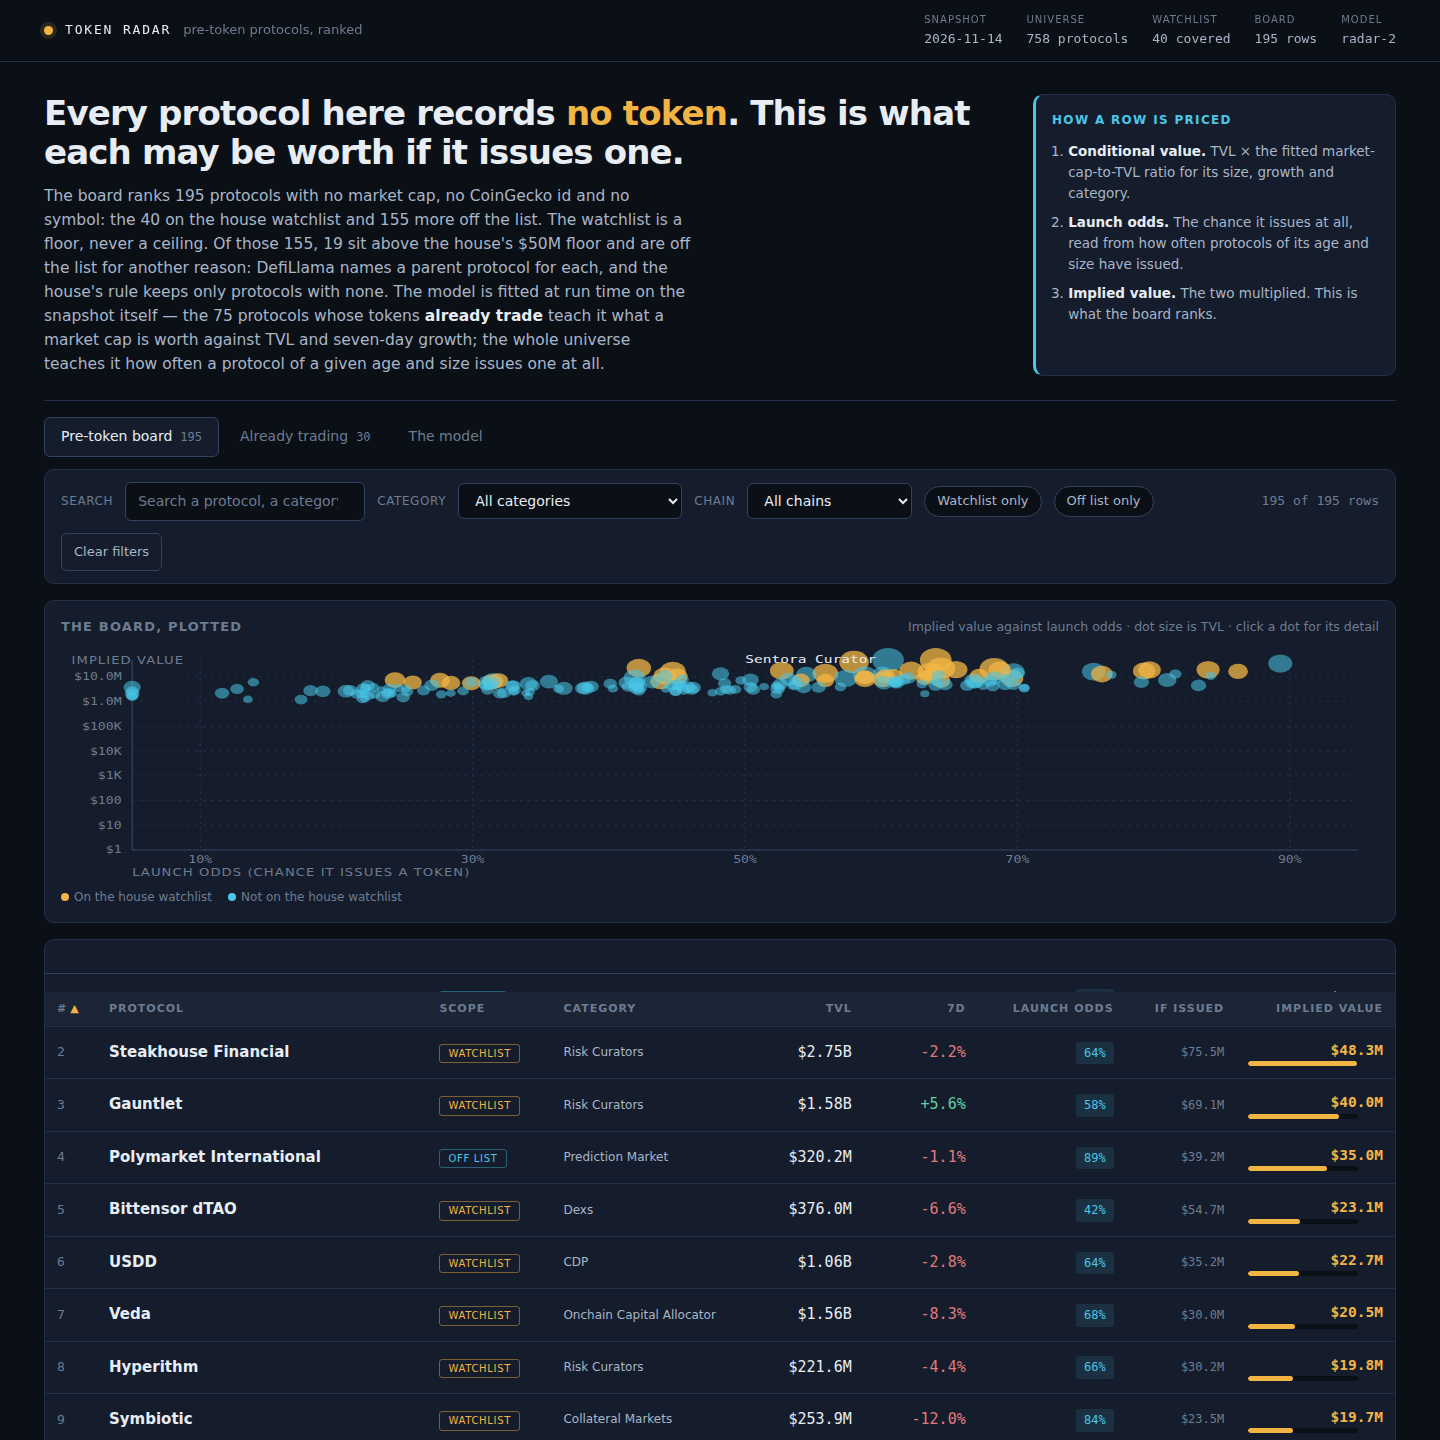
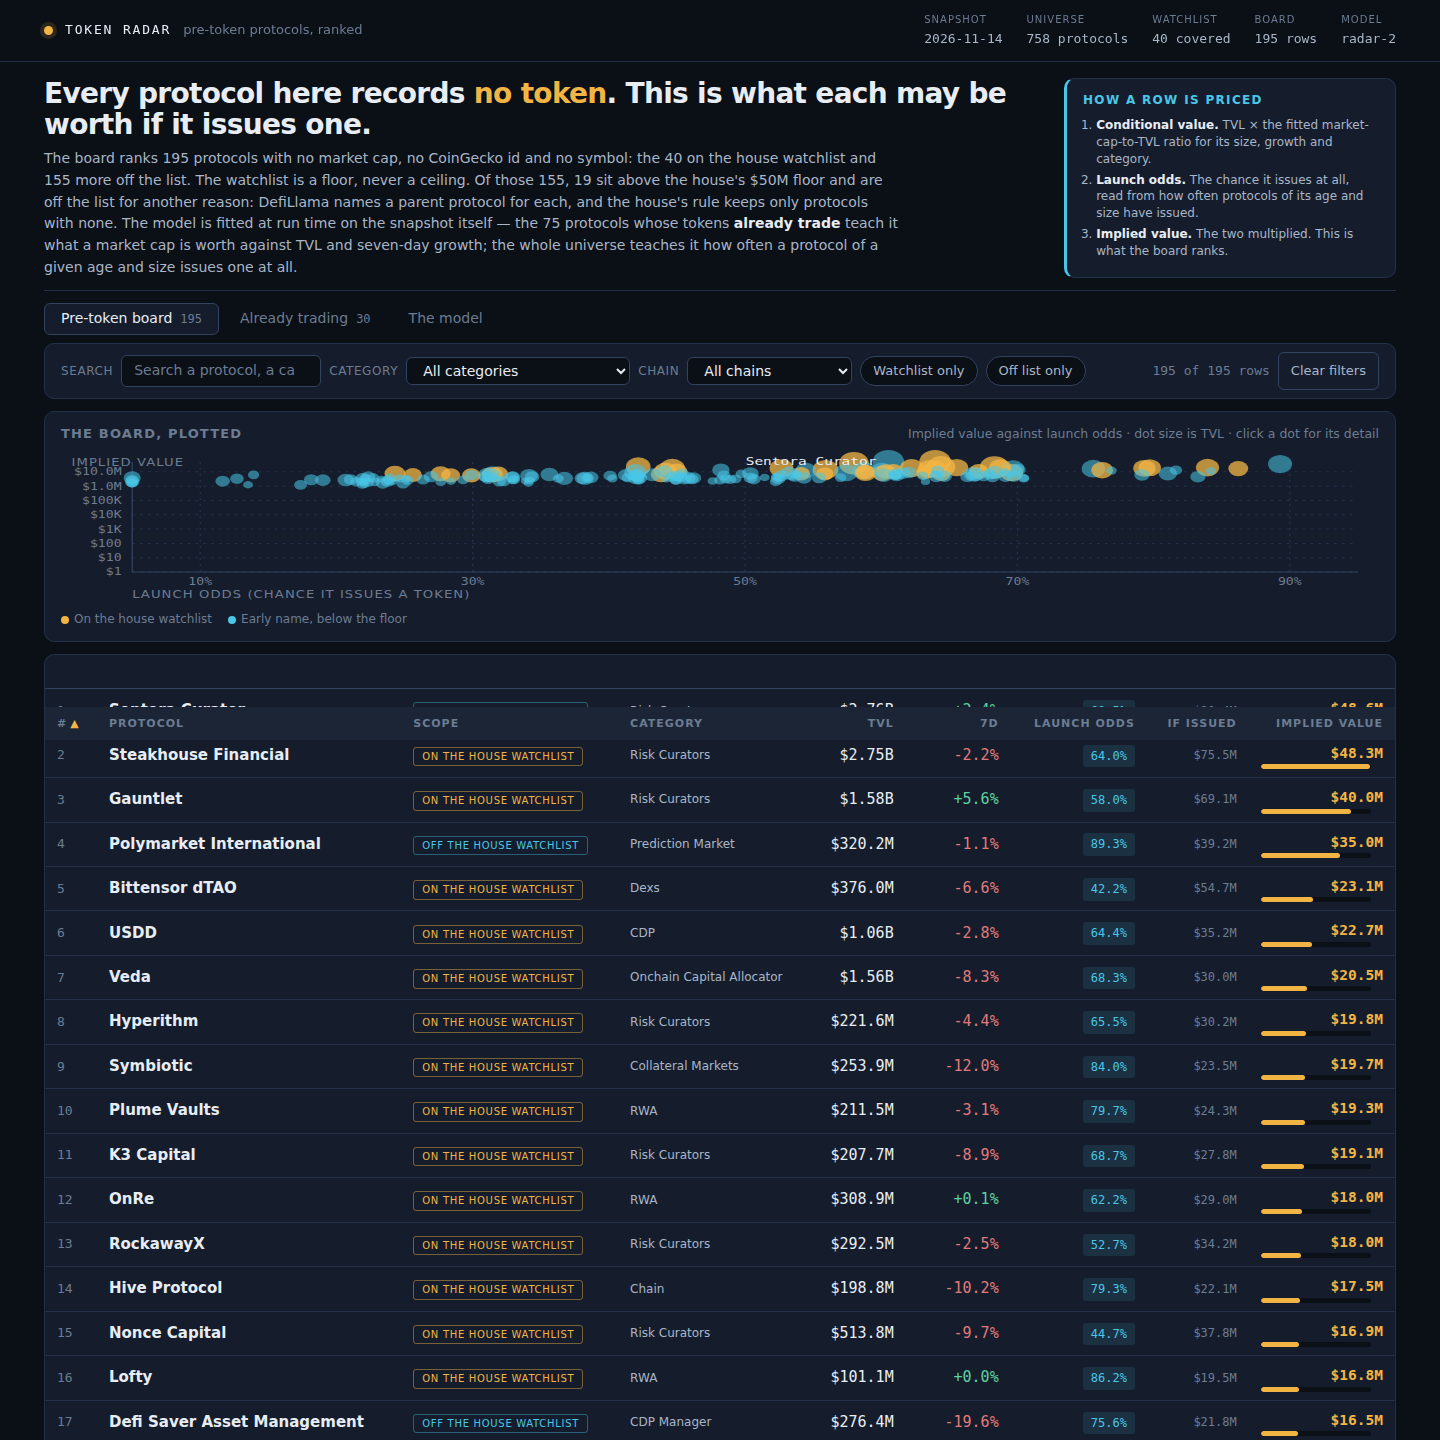
S2: the board's rows are in the cover picture
The board's table started 939px down the page, so at every viewport the judge could
render the cover screenshot showed the hero, the tabs, the filters and the scatter and
not one row of the board. At 1440x900 - the size the house's own reference starter
ships - it showed zero rows. The board is what criterion 1 is about.

The page is compacted rather than the screenshot scrolled: the hero's padding and
type come down, the callout tightens, the controls lose a row, the table's cells lose
half their padding and the scatter shortens from 230px to 150px, which still shows
every one of the 195 dots (193 inside the frame, 2 clipped at the top exactly as
before). The table now starts at 654px.

At 1440x1440 the cover shows the board's column heads and 16 rows with their implied
values; at 1440x900 it shows 4. The three screenshots are re-shot at 1440x1440 and
repacked into the 300-350 KB band.

ALL GATES PASS, pagecheck ALL GREEN, two runs byte-identical.

diff --git a/dashboard/theme.css b/dashboard/theme.css
@@ -23,30 +23,30 @@ a { color: var(--odds); }
 .bar-meta dd { margin: 0; font-family: var(--mono); font-size: 13px; color: var(--ink-2); }
 /* the hero */
 main { max-width: 1400px; margin: 0 auto; padding: 0 var(--s5) var(--s7); }
-.hero { padding: var(--s6) 0 var(--s5); border-bottom: 1px solid var(--line); }
-.hero-grid { display: grid; grid-template-columns: minmax(0, 1.45fr) minmax(300px, 0.55fr); gap: var(--s6); }
-.hero h1 { font-size: 34px; line-height: 1.15; letter-spacing: -0.025em; }
+.hero { padding: var(--s4) 0 var(--s3); border-bottom: 1px solid var(--line); }
+.hero-grid { display: grid; grid-template-columns: minmax(0, 1.5fr) minmax(300px, 0.5fr); gap: var(--s5); }
+.hero h1 { font-size: 28px; line-height: 1.12; letter-spacing: -0.025em; }
 .hero h1 em { font-style: normal; color: var(--value); }
-.hero p.lede { margin-top: var(--s3); color: var(--ink-2); max-width: 66ch; font-size: 15.5px; }
+.hero p.lede { margin-top: var(--s2); color: var(--ink-2); max-width: 96ch; font-size: 14px; }
 .hero p.lede strong { color: var(--ink); font-weight: 600; }
-.callout { background: var(--panel); border: 1px solid var(--line); border-left: 3px solid var(--odds); border-radius: var(--r-md); padding: var(--s4)}
+.callout { background: var(--panel); border: 1px solid var(--line); border-left: 3px solid var(--odds); border-radius: var(--r-md); padding: var(--s3) var(--s4); }
 .callout h2 { font-size: 12px; letter-spacing: 0.11em; text-transform: uppercase; color: var(--odds); }
-.callout ol { margin: var(--s3) 0 0; padding-left: 1.2em; color: var(--ink-2); font-size: 13.5px; }
-.callout ol li { margin-bottom: var(--s2); }
+.callout ol { margin: var(--s2) 0 0; padding-left: 1.1em; color: var(--ink-2); font-size: 12px; line-height: 1.4; }
+.callout ol li { margin-bottom: var(--s1); }
 .callout ol li strong { color: var(--ink); font-weight: 600; }
 /* the tabs */
-.tabs { display: flex; gap: var(--s1); padding: var(--s4) 0 var(--s3); flex-wrap: wrap; }
-.tab { background: transparent; border: 1px solid transparent; color: var(--ink-3); padding: var(--s2) var(--s4); border-radius: var(--r-sm); font-size: 14px}
+.tabs { display: flex; gap: var(--s1); padding: var(--s3) 0 var(--s2); flex-wrap: wrap; }
+.tab { background: transparent; border: 1px solid transparent; color: var(--ink-3); padding: var(--s1) var(--s4); border-radius: var(--r-sm); font-size: 14px}
 .tab:hover { color: var(--ink-2); background: var(--bg-2); }
 .tab[aria-selected="true"] { color: var(--ink); background: var(--panel); border-color: var(--line-2); }
 .tab .count { font-family: var(--mono); font-size: 12px; color: var(--ink-3); margin-left: var(--s2); }
 /* the controls */
-.controls { display: flex; gap: var(--s3); align-items: center; flex-wrap: wrap; padding: var(--s3) var(--s4); background: var(--panel); border: 1px solid var(--line); border-radius: var(--r-md); margin-bottom: var(--s4)}
+.controls { display: flex; gap: var(--s2); align-items: center; flex-wrap: wrap; padding: var(--s2) var(--s4); background: var(--panel); border: 1px solid var(--line); border-radius: var(--r-md); margin-bottom: var(--s3)}
 .controls label { font-size: 12px; color: var(--ink-3); letter-spacing: 0.05em; text-transform: uppercase; }
-.controls input[type="search"], .controls select { background: var(--bg); border: 1px solid var(--line-2); color: var(--ink); padding: var(--s2) var(--s3); border-radius: var(--r-sm); font-size: 14px}
-.controls input[type="search"] { min-width: 240px; }
+.controls input[type="search"], .controls select { background: var(--bg); border: 1px solid var(--line-2); color: var(--ink); padding: var(--s1) var(--s3); border-radius: var(--r-sm); font-size: 14px}
+.controls input[type="search"] { min-width: 200px; }
 .controls input[type="search"]::placeholder { color: var(--ink-3); }
-.controls select { min-width: 160px; }
+.controls select { min-width: 140px; }
 .chip { background: var(--bg); border: 1px solid var(--line-2); color: var(--ink-2); padding: var(--s1) var(--s3); border-radius: 999px; font-size: 13px}
 .chip[aria-pressed="true"] { border-color: var(--value); color: var(--value); background: rgba(242, 181, 68, 0.08); }
 .controls .spacer { flex: 1 1 auto; }
@@ -66,7 +66,7 @@ tbody tr:last-child { border-bottom: none; }
 tbody tr.row { cursor: pointer; }
 tbody tr.row:hover { background: var(--panel-2); }
 tbody tr.row:focus-visible { outline: 2px solid var(--value); outline-offset: -2px; }
-td { padding: var(--s3); vertical-align: middle; }
+td { padding: var(--s2) var(--s3); vertical-align: middle; }
 .rk { font-family: var(--mono); font-size: 13px; color: var(--ink-3); width: 52px; }
 .pname { font-weight: 600; }
 .pname .slug { display: block; font-family: var(--mono); font-size: 11px; color: var(--ink-3); font-weight: 400; }
@@ -86,11 +86,11 @@ td { padding: var(--s3); vertical-align: middle; }
 .pill.live { background: rgba(224, 108, 154, 0.13); color: var(--live); }
 .empty { padding: var(--s6); text-align: center; color: var(--ink-3); }
 /* the plot */
-.plot-wrap { background: var(--panel); border: 1px solid var(--line); border-radius: var(--r-md); padding: var(--s4); margin-bottom: var(--s4)}
-.plot-head { display: flex; justify-content: space-between; align-items: baseline; gap: var(--s4); margin-bottom: var(--s3); }
+.plot-wrap { background: var(--panel); border: 1px solid var(--line); border-radius: var(--r-md); padding: var(--s3) var(--s4); margin-bottom: var(--s3)}
+.plot-head { display: flex; justify-content: space-between; align-items: baseline; gap: var(--s4); margin-bottom: var(--s2); }
 .plot-head h3 { font-size: 13px; letter-spacing: 0.09em; text-transform: uppercase; color: var(--ink-3); }
 .plot-head .hint { font-size: 12.5px; color: var(--ink-3); }
-.plot { position: relative; height: 230px; }
+.plot { position: relative; height: 150px; }
 .plot svg { display: block; width: 100%; height: 100%; overflow: visible; }
 .plot .axis { stroke: var(--line-2); stroke-width: 1; }
 .plot .grid { stroke: var(--line); stroke-width: 1; stroke-dasharray: 2 4; }

diff --git a/dashboard/page.js b/dashboard/page.js
@@ -499,7 +499,7 @@
       return;
     }
     var W = 1000;
-    var H = 230;
+    var H = 150;
     var padL = 54;
     var padR = 16;
     var padT = 10;
